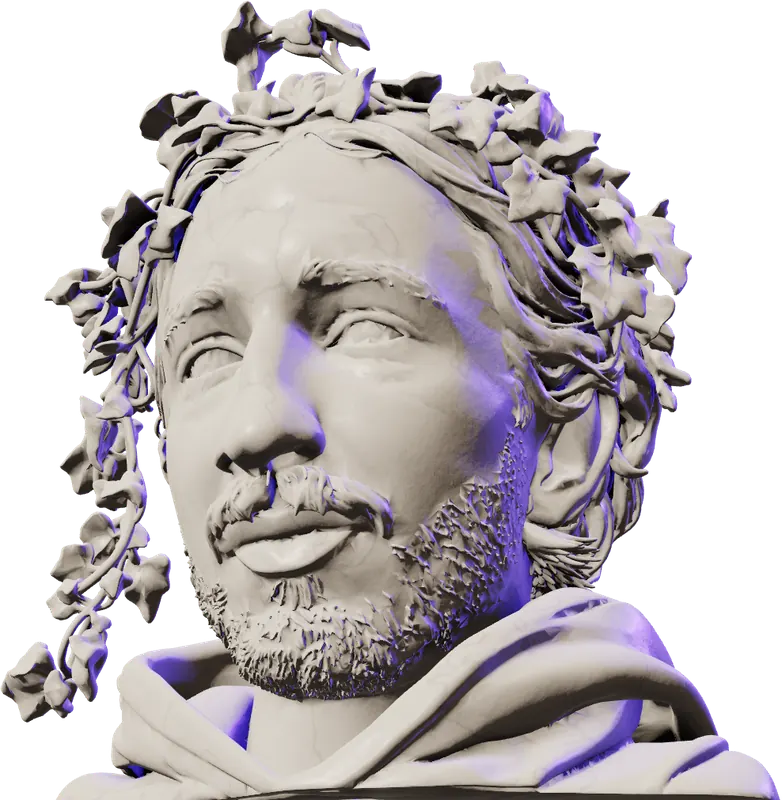
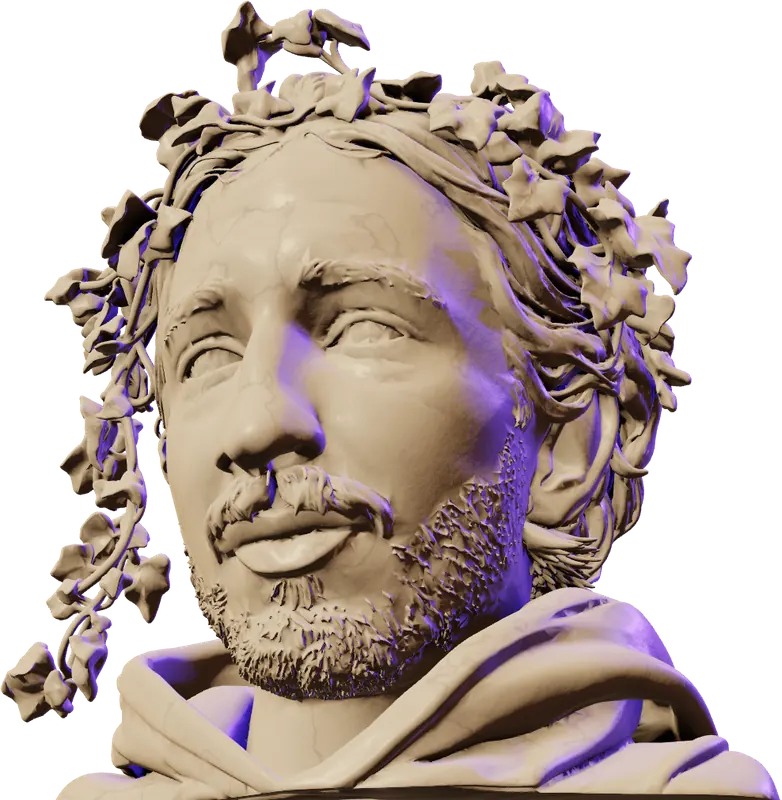
Bring back the warm marble
Restore the look from c99fdae (painting at full colour as the light, cream
base, golden key light) and its stills and share card. The spring motion
and the adaptive resolution from the last change stay.

Claude-Session: https://claude.ai/code/session_01WN3sWN5qWiKMxGn6tEwJvG

diff --git a/src/bustLook.js b/src/bustLook.js
@@ -17,13 +17,13 @@ float fbm(vec3 p){float v=0.,a=.5;for(int k=0;k<5;k++){v+=a*n3(p);p*=2.03;a*=.5;
 
 export function setupRenderer(renderer) {
   renderer.toneMapping = THREE.ACESFilmicToneMapping;
-  renderer.toneMappingExposure = 1.17;
+  renderer.toneMappingExposure = 1.08;
 }
 
 // Warm key from the painting above, a cobalt rim from behind. The painting
 // itself (the environment) does the soft fill.
 export function addBustLights(scene) {
-  const key = new THREE.DirectionalLight(0xfff2e0, 2.1);
+  const key = new THREE.DirectionalLight(0xffe2b8, 2.1);
   key.position.set(-1.2, 1.5, 1.2);
   const rim = new THREE.DirectionalLight(0x5b3cff, 2.8);
   rim.position.set(1.4, 0.6, -1.2);
@@ -43,22 +43,12 @@ export function loadEnvironment(renderer) {
       canvas.height = h;
       const ctx = canvas.getContext("2d");
       const horizon = h * 0.56;
-      // sky: the painting, wrapped once around, mostly drained of colour so
-      // it lights the stone white and only brushes it with the fresco's hues
+      // sky: the painting, wrapped once around
       ctx.drawImage(image, 0, 0, w, horizon);
-      const sky = ctx.getImageData(0, 0, w, Math.ceil(horizon));
-      for (let i = 0; i < sky.data.length; i += 4) {
-        const [r, g, b] = [sky.data[i], sky.data[i + 1], sky.data[i + 2]];
-        const grey = 0.299 * r + 0.587 * g + 0.114 * b;
-        sky.data[i] = Math.min(255, (grey + (r - grey) * 0.4) * 1.12);
-        sky.data[i + 1] = Math.min(255, (grey + (g - grey) * 0.4) * 1.12);
-        sky.data[i + 2] = Math.min(255, (grey + (b - grey) * 0.4) * 1.12);
-      }
-      ctx.putImageData(sky, 0, 0);
-      // ground: a neutral dark fading into the page colour
+      // ground: the painting's warm dark fading into the page colour
       const ground = ctx.createLinearGradient(0, horizon - 40, 0, h);
-      ground.addColorStop(0, "rgba(64, 60, 58, 0.0)");
-      ground.addColorStop(0.12, "rgba(56, 53, 52, 1)");
+      ground.addColorStop(0, "rgba(70, 52, 40, 0.0)");
+      ground.addColorStop(0.12, "rgba(58, 44, 36, 1)");
       ground.addColorStop(1, "rgba(18, 16, 16, 1)");
       ctx.fillStyle = ground;
       ctx.fillRect(0, horizon - 40, w, h - horizon + 40);
@@ -88,13 +78,13 @@ export function bustMaterial(height, hasShade) {
     uHasShade: { value: hasShade ? 1 : 0 },
   };
   const material = new THREE.MeshPhysicalMaterial({
-    color: 0xf7f5f1,
+    color: 0xf4f0e9,
     roughness: 0.4,
     metalness: 0,
     clearcoat: 0.16,
     clearcoatRoughness: 0.45,
     sheen: 0.55,
-    sheenColor: new THREE.Color(0xfff6ec),
+    sheenColor: new THREE.Color(0xffe2bf),
     sheenRoughness: 0.6,
     envMapIntensity: 0.85,
   });
@@ -129,7 +119,7 @@ vec3 mp = vP / uHeight * 6.0;
 float mt = fbm(mp * 1.3);
 float vein = 1.0 - smoothstep(0.0, 0.12, abs(sin(mp.x * 1.7 + mp.y * 0.9 + mt * 7.0)));
 float fine = 1.0 - smoothstep(0.0, 0.035, abs(sin(mp.y * 3.1 - mp.z * 2.0 + fbm(mp * 2.7) * 9.0)));
-vec3 marble = mix(diffuseColor.rgb, vec3(0.58, 0.58, 0.61), vein * 0.5 + fine * 0.22);
+vec3 marble = mix(diffuseColor.rgb, vec3(0.56, 0.54, 0.57), vein * 0.5 + fine * 0.22);
 marble *= 0.94 + 0.06 * fbm(mp * 6.0);
 // how open this point is: 1 on the cheek, low deep in the ivy and curls
 float open = mix(1.0, smoothstep(0.02, 0.78, vShade), uHasShade);
@@ -175,7 +165,7 @@ float contour = 1.0 - min(abs(fract(yy) - 0.5) / max(fwidth(yy), 1e-4), 1.0);
 float rim = pow(1.0 - abs(dot(normal, normalize(vViewPosition))), 2.5);
 totalEmissiveRadiance += blue * vec3(0.75, 1.0, 0.0) * (contour * 0.9 + rim * 0.5);
 // marble lets a little warm light through its thin, open edges
-totalEmissiveRadiance += (1.0 - blue) * vec3(0.95, 0.82, 0.7) * 0.06 * rim * open;
+totalEmissiveRadiance += (1.0 - blue) * vec3(0.95, 0.66, 0.42) * 0.07 * rim * open;
 float cut = 1.0 - smoothstep(0.0, 1.5 * uDpr, abs(gl_FragCoord.x - seamX));
 totalEmissiveRadiance += vec3(1.0, 1.0, 0.0) * cut * step(0.002, uSeam) * step(uSeam, 0.998) * 2.0;`,
       );
